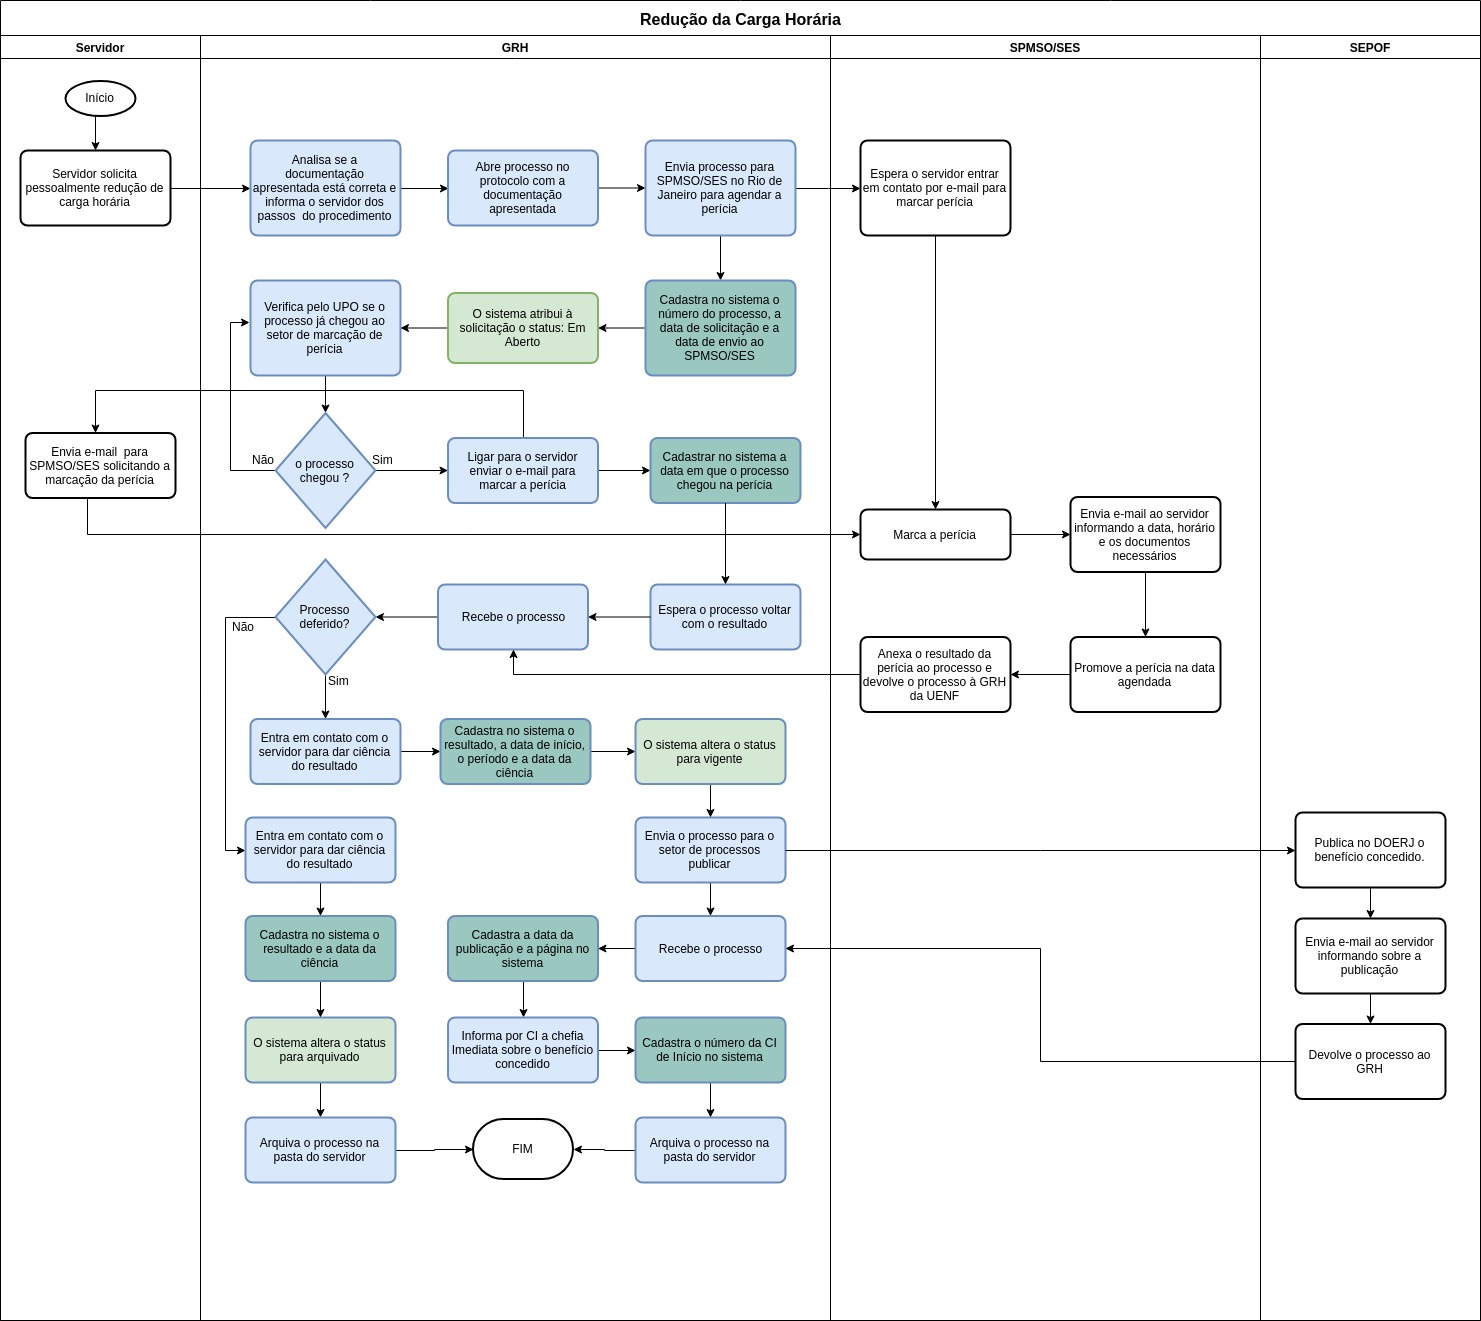
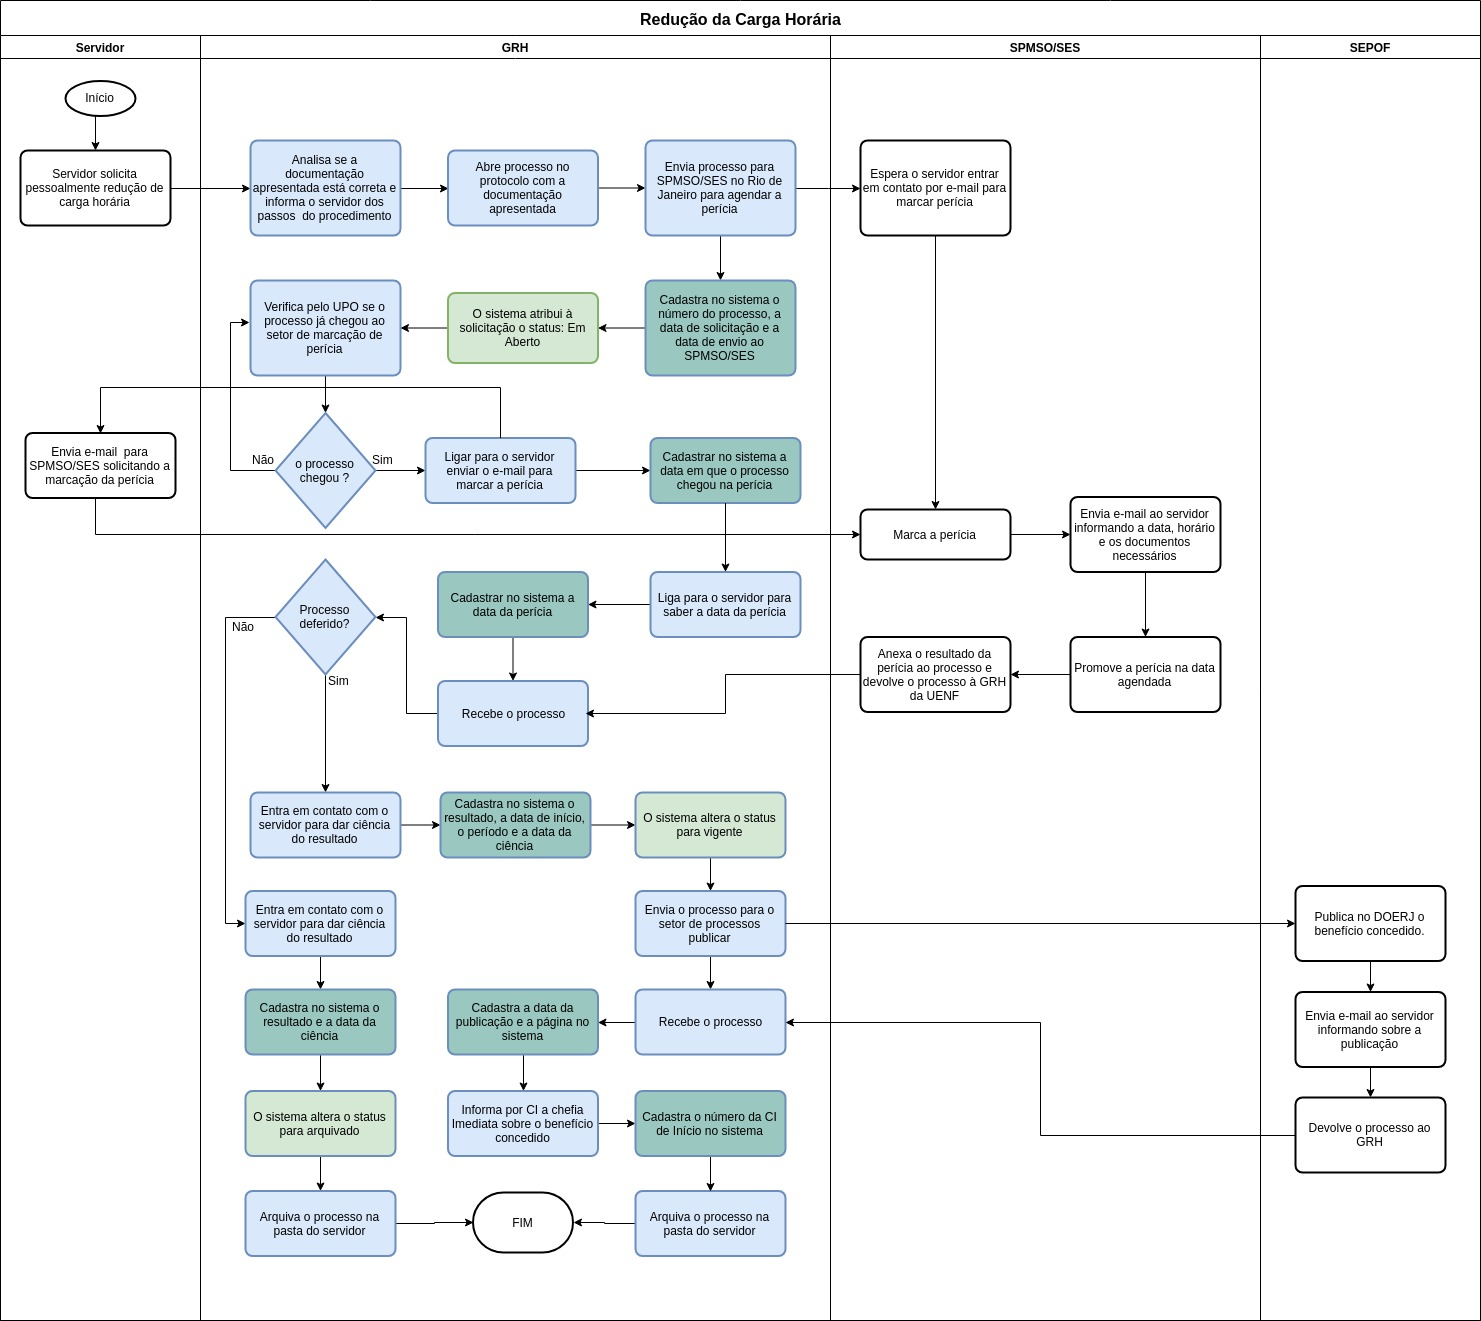
Menu do Servidor

diff --git a/_css/estilos.css b/_css/estilos.css
@@ -372,8 +372,12 @@ tr#arquivado{
     background-color:#e6e6e6;
 }
 
+tr#vigenteReducao{
+    background-color:#bbd0de;
+}
+
 tr#emAberto{
-    background-color:#fff;
+    background-color:#cdf3d3;
 }
 
 p#processoAntigoReducao{

diff --git a/grhSistema/servidorReducaoExtra.php b/grhSistema/servidorReducaoExtra.php
@@ -7,17 +7,39 @@
 
 $resultado = $campoValor[6];
 $status = $campoValor[1];
+$dtInicio = date_to_php($campoValor[12]);
+$periodo = $campoValor[13];
 
 # Preenche o status de acordo com o resultado
 switch ($resultado){
+    
+    # Resultado: nulo - Ainda não saiu o resultado
+    # Status: 1 - Em aberto
     case NULL:
         $campoValor[1] = 1;
         break;
     
+    # Resultado: 1 - Deferido
+    # Status:    2 - Vigente até o término do benefício, após essa data passa para 3 - Arquivado
     case 1:
-        $campoValor[1] = 2;
+        
+        # Verifica se já está cadastrada a data de início e o período
+        if((is_null($dtInicio)) OR (is_null($periodo))){
+            $campoValor[1] = 2;
+        }else{
+            $dtTermino = addMeses($dtInicio,$periodo);
+            
+            # Verifica se a data de término já passou
+            if(jaPassou($dtTermino)){
+                $campoValor[1] = 3; // Arquivado
+            }else{
+                $campoValor[1] = 2; // Vigente
+            }
+        }
         break;
     
+    # Resultado: 2 - Indeferido
+    # Status:    3 - Arquivado
     case 2:
         $campoValor[1] = 3;
         break;

diff --git a/grhSistema/servidorReducao.php b/grhSistema/servidorReducao.php
@@ -257,7 +257,7 @@ if($acesso){
                                               array('coluna' => 0,
                                                     'valor' => 'Vigente',
                                                     'operador' => '=',
-                                                    'id' => 'vigente')   
+                                                    'id' => 'vigenteReducao')   
                                                     ));
 
     # Parametros da tabela
